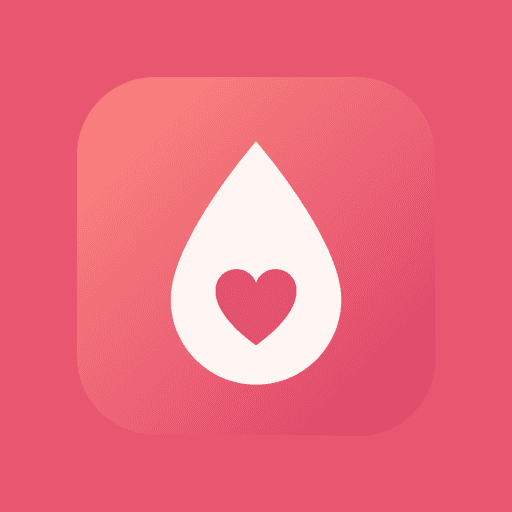
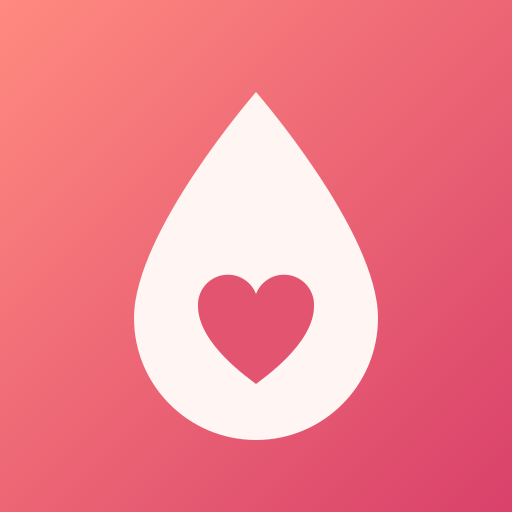
Fiabiliser la PWA : écrans de démarrage iOS, icônes et notifications
- Écrans de démarrage iOS : ajout de l'iPhone Air et de l'iPhone 8 Plus,
  du paysage, et thème clair explicite pour que clair et sombre ne
  correspondent jamais en même temps. Le logo fait 96 pt sur tous les
  iPhone, comme l'écran de chargement de l'app (plus de saut).
- Icône iOS et icône maskable générées depuis un logo plein cadre :
  plus de cadre rose autour du logo arrondi. PNG sans palette.
- Badge de notification monochrome pour Android.
- Manifeste : id stable, purpose explicite ; pré-cache sans doublons.
- Service worker : l'API est exclue du fallback de navigation, clic sur
  une notification fiable (focus puis navigate).
- Réglages : message dédié aux iPhone sous iOS < 16.4, iPad détecté.

Claude-Session: https://claude.ai/code/session_017miQZzWQEAXr7XEsAgf3kA

diff --git a/index.html b/index.html
@@ -14,26 +14,59 @@
     <link rel="icon" href="/favicon.ico" sizes="48x48" />
     <link rel="icon" href="/favicon.svg" type="image/svg+xml" />
     <link rel="apple-touch-icon" href="/apple-touch-icon-180x180.png" />
-    <link rel="apple-touch-startup-image" media="screen and (device-width: 440px) and (device-height: 956px) and (-webkit-device-pixel-ratio: 3) and (orientation: portrait)" href="/splash/apple-splash-portrait-1320x2868.png" />
+    <!--
+      Écrans de démarrage iOS (npm run icons). iOS n'affiche une image que si sa taille correspond
+      exactement à l'écran : une ligne par taille d'iPhone, orientation et thème. Le thème clair est
+      explicite pour que clair et sombre ne correspondent jamais en même temps.
+    -->
+    <link rel="apple-touch-startup-image" media="screen and (prefers-color-scheme: light) and (device-width: 440px) and (device-height: 956px) and (-webkit-device-pixel-ratio: 3) and (orientation: portrait)" href="/splash/apple-splash-portrait-1320x2868.png" />
+    <link rel="apple-touch-startup-image" media="screen and (prefers-color-scheme: light) and (device-width: 440px) and (device-height: 956px) and (-webkit-device-pixel-ratio: 3) and (orientation: landscape)" href="/splash/apple-splash-landscape-2868x1320.png" />
     <link rel="apple-touch-startup-image" media="screen and (prefers-color-scheme: dark) and (device-width: 440px) and (device-height: 956px) and (-webkit-device-pixel-ratio: 3) and (orientation: portrait)" href="/splash/apple-splash-portrait-dark-1320x2868.png" />
-    <link rel="apple-touch-startup-image" media="screen and (device-width: 402px) and (device-height: 874px) and (-webkit-device-pixel-ratio: 3) and (orientation: portrait)" href="/splash/apple-splash-portrait-1206x2622.png" />
+    <link rel="apple-touch-startup-image" media="screen and (prefers-color-scheme: dark) and (device-width: 440px) and (device-height: 956px) and (-webkit-device-pixel-ratio: 3) and (orientation: landscape)" href="/splash/apple-splash-landscape-dark-2868x1320.png" />
+    <link rel="apple-touch-startup-image" media="screen and (prefers-color-scheme: light) and (device-width: 420px) and (device-height: 912px) and (-webkit-device-pixel-ratio: 3) and (orientation: portrait)" href="/splash/apple-splash-portrait-1260x2736.png" />
+    <link rel="apple-touch-startup-image" media="screen and (prefers-color-scheme: light) and (device-width: 420px) and (device-height: 912px) and (-webkit-device-pixel-ratio: 3) and (orientation: landscape)" href="/splash/apple-splash-landscape-2736x1260.png" />
+    <link rel="apple-touch-startup-image" media="screen and (prefers-color-scheme: dark) and (device-width: 420px) and (device-height: 912px) and (-webkit-device-pixel-ratio: 3) and (orientation: portrait)" href="/splash/apple-splash-portrait-dark-1260x2736.png" />
+    <link rel="apple-touch-startup-image" media="screen and (prefers-color-scheme: dark) and (device-width: 420px) and (device-height: 912px) and (-webkit-device-pixel-ratio: 3) and (orientation: landscape)" href="/splash/apple-splash-landscape-dark-2736x1260.png" />
+    <link rel="apple-touch-startup-image" media="screen and (prefers-color-scheme: light) and (device-width: 402px) and (device-height: 874px) and (-webkit-device-pixel-ratio: 3) and (orientation: portrait)" href="/splash/apple-splash-portrait-1206x2622.png" />
+    <link rel="apple-touch-startup-image" media="screen and (prefers-color-scheme: light) and (device-width: 402px) and (device-height: 874px) and (-webkit-device-pixel-ratio: 3) and (orientation: landscape)" href="/splash/apple-splash-landscape-2622x1206.png" />
     <link rel="apple-touch-startup-image" media="screen and (prefers-color-scheme: dark) and (device-width: 402px) and (device-height: 874px) and (-webkit-device-pixel-ratio: 3) and (orientation: portrait)" href="/splash/apple-splash-portrait-dark-1206x2622.png" />
-    <link rel="apple-touch-startup-image" media="screen and (device-width: 430px) and (device-height: 932px) and (-webkit-device-pixel-ratio: 3) and (orientation: portrait)" href="/splash/apple-splash-portrait-1290x2796.png" />
+    <link rel="apple-touch-startup-image" media="screen and (prefers-color-scheme: dark) and (device-width: 402px) and (device-height: 874px) and (-webkit-device-pixel-ratio: 3) and (orientation: landscape)" href="/splash/apple-splash-landscape-dark-2622x1206.png" />
+    <link rel="apple-touch-startup-image" media="screen and (prefers-color-scheme: light) and (device-width: 430px) and (device-height: 932px) and (-webkit-device-pixel-ratio: 3) and (orientation: portrait)" href="/splash/apple-splash-portrait-1290x2796.png" />
+    <link rel="apple-touch-startup-image" media="screen and (prefers-color-scheme: light) and (device-width: 430px) and (device-height: 932px) and (-webkit-device-pixel-ratio: 3) and (orientation: landscape)" href="/splash/apple-splash-landscape-2796x1290.png" />
     <link rel="apple-touch-startup-image" media="screen and (prefers-color-scheme: dark) and (device-width: 430px) and (device-height: 932px) and (-webkit-device-pixel-ratio: 3) and (orientation: portrait)" href="/splash/apple-splash-portrait-dark-1290x2796.png" />
-    <link rel="apple-touch-startup-image" media="screen and (device-width: 393px) and (device-height: 852px) and (-webkit-device-pixel-ratio: 3) and (orientation: portrait)" href="/splash/apple-splash-portrait-1179x2556.png" />
+    <link rel="apple-touch-startup-image" media="screen and (prefers-color-scheme: dark) and (device-width: 430px) and (device-height: 932px) and (-webkit-device-pixel-ratio: 3) and (orientation: landscape)" href="/splash/apple-splash-landscape-dark-2796x1290.png" />
+    <link rel="apple-touch-startup-image" media="screen and (prefers-color-scheme: light) and (device-width: 393px) and (device-height: 852px) and (-webkit-device-pixel-ratio: 3) and (orientation: portrait)" href="/splash/apple-splash-portrait-1179x2556.png" />
+    <link rel="apple-touch-startup-image" media="screen and (prefers-color-scheme: light) and (device-width: 393px) and (device-height: 852px) and (-webkit-device-pixel-ratio: 3) and (orientation: landscape)" href="/splash/apple-splash-landscape-2556x1179.png" />
     <link rel="apple-touch-startup-image" media="screen and (prefers-color-scheme: dark) and (device-width: 393px) and (device-height: 852px) and (-webkit-device-pixel-ratio: 3) and (orientation: portrait)" href="/splash/apple-splash-portrait-dark-1179x2556.png" />
-    <link rel="apple-touch-startup-image" media="screen and (device-width: 428px) and (device-height: 926px) and (-webkit-device-pixel-ratio: 3) and (orientation: portrait)" href="/splash/apple-splash-portrait-1284x2778.png" />
+    <link rel="apple-touch-startup-image" media="screen and (prefers-color-scheme: dark) and (device-width: 393px) and (device-height: 852px) and (-webkit-device-pixel-ratio: 3) and (orientation: landscape)" href="/splash/apple-splash-landscape-dark-2556x1179.png" />
+    <link rel="apple-touch-startup-image" media="screen and (prefers-color-scheme: light) and (device-width: 428px) and (device-height: 926px) and (-webkit-device-pixel-ratio: 3) and (orientation: portrait)" href="/splash/apple-splash-portrait-1284x2778.png" />
+    <link rel="apple-touch-startup-image" media="screen and (prefers-color-scheme: light) and (device-width: 428px) and (device-height: 926px) and (-webkit-device-pixel-ratio: 3) and (orientation: landscape)" href="/splash/apple-splash-landscape-2778x1284.png" />
     <link rel="apple-touch-startup-image" media="screen and (prefers-color-scheme: dark) and (device-width: 428px) and (device-height: 926px) and (-webkit-device-pixel-ratio: 3) and (orientation: portrait)" href="/splash/apple-splash-portrait-dark-1284x2778.png" />
-    <link rel="apple-touch-startup-image" media="screen and (device-width: 390px) and (device-height: 844px) and (-webkit-device-pixel-ratio: 3) and (orientation: portrait)" href="/splash/apple-splash-portrait-1170x2532.png" />
+    <link rel="apple-touch-startup-image" media="screen and (prefers-color-scheme: dark) and (device-width: 428px) and (device-height: 926px) and (-webkit-device-pixel-ratio: 3) and (orientation: landscape)" href="/splash/apple-splash-landscape-dark-2778x1284.png" />
+    <link rel="apple-touch-startup-image" media="screen and (prefers-color-scheme: light) and (device-width: 390px) and (device-height: 844px) and (-webkit-device-pixel-ratio: 3) and (orientation: portrait)" href="/splash/apple-splash-portrait-1170x2532.png" />
+    <link rel="apple-touch-startup-image" media="screen and (prefers-color-scheme: light) and (device-width: 390px) and (device-height: 844px) and (-webkit-device-pixel-ratio: 3) and (orientation: landscape)" href="/splash/apple-splash-landscape-2532x1170.png" />
     <link rel="apple-touch-startup-image" media="screen and (prefers-color-scheme: dark) and (device-width: 390px) and (device-height: 844px) and (-webkit-device-pixel-ratio: 3) and (orientation: portrait)" href="/splash/apple-splash-portrait-dark-1170x2532.png" />
-    <link rel="apple-touch-startup-image" media="screen and (device-width: 375px) and (device-height: 812px) and (-webkit-device-pixel-ratio: 3) and (orientation: portrait)" href="/splash/apple-splash-portrait-1125x2436.png" />
+    <link rel="apple-touch-startup-image" media="screen and (prefers-color-scheme: dark) and (device-width: 390px) and (device-height: 844px) and (-webkit-device-pixel-ratio: 3) and (orientation: landscape)" href="/splash/apple-splash-landscape-dark-2532x1170.png" />
+    <link rel="apple-touch-startup-image" media="screen and (prefers-color-scheme: light) and (device-width: 375px) and (device-height: 812px) and (-webkit-device-pixel-ratio: 3) and (orientation: portrait)" href="/splash/apple-splash-portrait-1125x2436.png" />
+    <link rel="apple-touch-startup-image" media="screen and (prefers-color-scheme: light) and (device-width: 375px) and (device-height: 812px) and (-webkit-device-pixel-ratio: 3) and (orientation: landscape)" href="/splash/apple-splash-landscape-2436x1125.png" />
     <link rel="apple-touch-startup-image" media="screen and (prefers-color-scheme: dark) and (device-width: 375px) and (device-height: 812px) and (-webkit-device-pixel-ratio: 3) and (orientation: portrait)" href="/splash/apple-splash-portrait-dark-1125x2436.png" />
-    <link rel="apple-touch-startup-image" media="screen and (device-width: 375px) and (device-height: 667px) and (-webkit-device-pixel-ratio: 2) and (orientation: portrait)" href="/splash/apple-splash-portrait-750x1334.png" />
-    <link rel="apple-touch-startup-image" media="screen and (prefers-color-scheme: dark) and (device-width: 375px) and (device-height: 667px) and (-webkit-device-pixel-ratio: 2) and (orientation: portrait)" href="/splash/apple-splash-portrait-dark-750x1334.png" />
-    <link rel="apple-touch-startup-image" media="screen and (device-width: 414px) and (device-height: 896px) and (-webkit-device-pixel-ratio: 3) and (orientation: portrait)" href="/splash/apple-splash-portrait-1242x2688.png" />
+    <link rel="apple-touch-startup-image" media="screen and (prefers-color-scheme: dark) and (device-width: 375px) and (device-height: 812px) and (-webkit-device-pixel-ratio: 3) and (orientation: landscape)" href="/splash/apple-splash-landscape-dark-2436x1125.png" />
+    <link rel="apple-touch-startup-image" media="screen and (prefers-color-scheme: light) and (device-width: 414px) and (device-height: 896px) and (-webkit-device-pixel-ratio: 3) and (orientation: portrait)" href="/splash/apple-splash-portrait-1242x2688.png" />
+    <link rel="apple-touch-startup-image" media="screen and (prefers-color-scheme: light) and (device-width: 414px) and (device-height: 896px) and (-webkit-device-pixel-ratio: 3) and (orientation: landscape)" href="/splash/apple-splash-landscape-2688x1242.png" />
     <link rel="apple-touch-startup-image" media="screen and (prefers-color-scheme: dark) and (device-width: 414px) and (device-height: 896px) and (-webkit-device-pixel-ratio: 3) and (orientation: portrait)" href="/splash/apple-splash-portrait-dark-1242x2688.png" />
-    <link rel="apple-touch-startup-image" media="screen and (device-width: 414px) and (device-height: 896px) and (-webkit-device-pixel-ratio: 2) and (orientation: portrait)" href="/splash/apple-splash-portrait-828x1792.png" />
+    <link rel="apple-touch-startup-image" media="screen and (prefers-color-scheme: dark) and (device-width: 414px) and (device-height: 896px) and (-webkit-device-pixel-ratio: 3) and (orientation: landscape)" href="/splash/apple-splash-landscape-dark-2688x1242.png" />
+    <link rel="apple-touch-startup-image" media="screen and (prefers-color-scheme: light) and (device-width: 414px) and (device-height: 896px) and (-webkit-device-pixel-ratio: 2) and (orientation: portrait)" href="/splash/apple-splash-portrait-828x1792.png" />
+    <link rel="apple-touch-startup-image" media="screen and (prefers-color-scheme: light) and (device-width: 414px) and (device-height: 896px) and (-webkit-device-pixel-ratio: 2) and (orientation: landscape)" href="/splash/apple-splash-landscape-1792x828.png" />
     <link rel="apple-touch-startup-image" media="screen and (prefers-color-scheme: dark) and (device-width: 414px) and (device-height: 896px) and (-webkit-device-pixel-ratio: 2) and (orientation: portrait)" href="/splash/apple-splash-portrait-dark-828x1792.png" />
+    <link rel="apple-touch-startup-image" media="screen and (prefers-color-scheme: dark) and (device-width: 414px) and (device-height: 896px) and (-webkit-device-pixel-ratio: 2) and (orientation: landscape)" href="/splash/apple-splash-landscape-dark-1792x828.png" />
+    <link rel="apple-touch-startup-image" media="screen and (prefers-color-scheme: light) and (device-width: 414px) and (device-height: 736px) and (-webkit-device-pixel-ratio: 3) and (orientation: portrait)" href="/splash/apple-splash-portrait-1242x2208.png" />
+    <link rel="apple-touch-startup-image" media="screen and (prefers-color-scheme: light) and (device-width: 414px) and (device-height: 736px) and (-webkit-device-pixel-ratio: 3) and (orientation: landscape)" href="/splash/apple-splash-landscape-2208x1242.png" />
+    <link rel="apple-touch-startup-image" media="screen and (prefers-color-scheme: dark) and (device-width: 414px) and (device-height: 736px) and (-webkit-device-pixel-ratio: 3) and (orientation: portrait)" href="/splash/apple-splash-portrait-dark-1242x2208.png" />
+    <link rel="apple-touch-startup-image" media="screen and (prefers-color-scheme: dark) and (device-width: 414px) and (device-height: 736px) and (-webkit-device-pixel-ratio: 3) and (orientation: landscape)" href="/splash/apple-splash-landscape-dark-2208x1242.png" />
+    <link rel="apple-touch-startup-image" media="screen and (prefers-color-scheme: light) and (device-width: 375px) and (device-height: 667px) and (-webkit-device-pixel-ratio: 2) and (orientation: portrait)" href="/splash/apple-splash-portrait-750x1334.png" />
+    <link rel="apple-touch-startup-image" media="screen and (prefers-color-scheme: light) and (device-width: 375px) and (device-height: 667px) and (-webkit-device-pixel-ratio: 2) and (orientation: landscape)" href="/splash/apple-splash-landscape-1334x750.png" />
+    <link rel="apple-touch-startup-image" media="screen and (prefers-color-scheme: dark) and (device-width: 375px) and (device-height: 667px) and (-webkit-device-pixel-ratio: 2) and (orientation: portrait)" href="/splash/apple-splash-portrait-dark-750x1334.png" />
+    <link rel="apple-touch-startup-image" media="screen and (prefers-color-scheme: dark) and (device-width: 375px) and (device-height: 667px) and (-webkit-device-pixel-ratio: 2) and (orientation: landscape)" href="/splash/apple-splash-landscape-dark-1334x750.png" />
   </head>
   <body>
     <div id="root"></div>

diff --git a/pwa-assets.config.ts b/pwa-assets.config.ts
@@ -1,14 +1,25 @@
 import { defineConfig, minimal2023Preset, createAppleSplashScreens } from '@vite-pwa/assets-generator/config'
 
+/**
+ * Taille du logo sur l'écran de démarrage iOS, en points. Elle doit rester égale à celle du logo
+ * de l'écran de chargement de l'app (size-24 = 96 px dans App.tsx), sinon le logo « saute »
+ * quand l'app prend le relais.
+ */
+const SPLASH_LOGO_PT = 96
+
+// Icônes « transparentes » (logo arrondi) et écrans de démarrage iOS, depuis public/logo.svg.
+// L'icône iOS et l'icône maskable Android viennent de pwa-assets.full-bleed.config.ts :
+// elles doivent remplir tout le carré, sinon on voit un cadre rose autour du logo arrondi.
 export default defineConfig({
   headLinkOptions: { preset: '2023' },
   preset: {
-    ...minimal2023Preset,
-    maskable: { ...minimal2023Preset.maskable, resizeOptions: { background: '#E8566F' } },
-    apple: { ...minimal2023Preset.apple, resizeOptions: { background: '#E8566F' } },
-    appleSplashScreens: createAppleSplashScreens(
+    transparent: minimal2023Preset.transparent,
+    // Pas de « quality » : sharp passerait en palette 256 couleurs et le dégradé serait tramé.
+    png: { compressionLevel: 9, quality: undefined },
+    maskable: { sizes: [] },
+    apple: { sizes: [] },
+    appleSplashScreens: withLogoSize(createAppleSplashScreens(
       {
-        padding: 0.35,
         resizeOptions: { background: '#FFF6F3', fit: 'contain' },
         darkResizeOptions: { background: '#1E1416', fit: 'contain' },
         linkMediaOptions: { log: true, addMediaScreen: true, basePath: '/', xhtml: false },
@@ -16,8 +27,31 @@ export default defineConfig({
         name: (landscape, size, dark) =>
           `splash/apple-splash-${landscape ? 'landscape' : 'portrait'}-${dark ? 'dark-' : ''}${size.width}x${size.height}.png`,
       },
-      ['iPhone 16 Pro Max', 'iPhone 16 Pro', 'iPhone 16 Plus', 'iPhone 16', 'iPhone 15 Pro Max', 'iPhone 15 Pro', 'iPhone 14 Plus', 'iPhone 13', 'iPhone 13 mini', 'iPhone SE 4.7"', 'iPhone 11 Pro Max', 'iPhone 11', 'iPhone X'],
-    ),
+      // Un écran par taille d'iPhone sous iOS 16.4+ (minimum pour les notifications).
+      // Les modèles de même taille partagent la même image (ex. 17 = 16 Pro, 16e = 14 = 13).
+      [
+        'iPhone 17 Pro Max', // 440×956 @3 (= 16 Pro Max)
+        'iPhone Air', // 420×912 @3
+        'iPhone 17 Pro', // 402×874 @3 (= 17, 16 Pro)
+        'iPhone 16 Plus', // 430×932 @3 (= 15 Plus, 15 Pro Max, 14 Pro Max)
+        'iPhone 16', // 393×852 @3 (= 15, 15 Pro, 14 Pro)
+        'iPhone 14 Plus', // 428×926 @3 (= 13 Pro Max, 12 Pro Max)
+        'iPhone 13', // 390×844 @3 (= 16e, 14, 13 Pro, 12)
+        'iPhone 13 mini', // 375×812 @3 (= 12 mini, 11 Pro, XS, X)
+        'iPhone 11 Pro Max', // 414×896 @3 (= XS Max)
+        'iPhone 11', // 414×896 @2 (= XR)
+        'iPhone 8 Plus', // 414×736 @3
+        'iPhone SE 4.7"', // 375×667 @2 (= SE 2/3, 8)
+      ],
+    )),
   },
   images: ['public/logo.svg'],
 })
+
+/** Marge propre à chaque écran pour que le logo fasse SPLASH_LOGO_PT points sur tous les iPhone. */
+function withLogoSize<T extends { sizes: { width: number; scaleFactor: number; padding?: number }[] }>(splash: T): T {
+  return {
+    ...splash,
+    sizes: splash.sizes.map((size) => ({ ...size, padding: 1 - SPLASH_LOGO_PT / (size.width / size.scaleFactor) })),
+  }
+}

diff --git a/vite.config.ts b/vite.config.ts
@@ -19,10 +19,13 @@ export default defineConfig(({ mode }) => {
       registerType: 'autoUpdate',
       injectRegister: false,
       injectManifest: {
-        // Les écrans de démarrage iOS ne sont pas pré-cachés (inutiles hors ligne).
-        globPatterns: ['**/*.{js,css,html,svg,ico,woff2}', 'pwa-*.png', 'maskable-*.png', 'apple-touch-icon-*.png'],
+        // Les icônes du manifeste sont ajoutées automatiquement. Les écrans de démarrage iOS et
+        // l'icône iOS ne sont pas pré-cachés : iOS les télécharge une seule fois, à l'installation.
+        globPatterns: ['**/*.{js,css,html,ico,woff2}', 'logo.svg', 'favicon.svg', 'badge-*.png'],
       },
       manifest: {
+        // Identifiant stable de l'app installée (sinon Chrome le déduit de start_url).
+        id: '/',
         name: 'Cycle à deux',
         short_name: 'Cycle',
         description: 'Suivi des règles partagé, simple et rapide.',
@@ -34,12 +37,12 @@ export default defineConfig(({ mode }) => {
         background_color: '#FFF6F3',
         theme_color: '#FFF6F3',
         icons: [
-          { src: 'pwa-64x64.png', sizes: '64x64', type: 'image/png' },
-          { src: 'pwa-192x192.png', sizes: '192x192', type: 'image/png' },
-          { src: 'pwa-512x512.png', sizes: '512x512', type: 'image/png' },
+          { src: 'pwa-64x64.png', sizes: '64x64', type: 'image/png', purpose: 'any' },
+          { src: 'pwa-192x192.png', sizes: '192x192', type: 'image/png', purpose: 'any' },
+          { src: 'pwa-512x512.png', sizes: '512x512', type: 'image/png', purpose: 'any' },
           { src: 'maskable-icon-512x512.png', sizes: '512x512', type: 'image/png', purpose: 'maskable' },
         ],
-        shortcuts: [{ name: 'Noter aujourd’hui', url: '/?log=today', icons: [{ src: 'pwa-192x192.png', sizes: '192x192' }] }],
+        shortcuts: [{ name: 'Noter aujourd’hui', url: '/?log=today', icons: [{ src: 'pwa-192x192.png', sizes: '192x192', type: 'image/png' }] }],
       },
       devOptions: { enabled: false },
     }),

diff --git a/src/sw.ts b/src/sw.ts
@@ -8,7 +8,8 @@ declare const self: ServiceWorkerGlobalScope
 // Cache hors ligne de l'app (HTML, JS, CSS, icônes).
 precacheAndRoute(self.__WB_MANIFEST)
 cleanupOutdatedCaches()
-registerRoute(new NavigationRoute(createHandlerBoundToURL('/index.html')))
+// Toute navigation sert l'app en cache (hors ligne compris), sauf les routes de l'API.
+registerRoute(new NavigationRoute(createHandlerBoundToURL('/index.html'), { denylist: [/^\/api\//] }))
 
 self.skipWaiting()
 clientsClaim()
@@ -26,7 +27,8 @@ self.addEventListener('push', (event) => {
     self.registration.showNotification(data.title ?? 'Cycle à deux', {
       body: data.body,
       icon: '/pwa-192x192.png',
-      badge: '/pwa-64x64.png',
+      // Android n'affiche que la silhouette du badge (barre d'état) : il doit être monochrome.
+      badge: '/badge-96x96.png',
       tag: data.kind ?? 'reminder',
       data: { url: data.url ?? '/' },
     }),
@@ -38,14 +40,14 @@ self.addEventListener('notificationclick', (event) => {
   event.notification.close()
   const url = new URL(event.notification.data?.url ?? '/', self.location.origin).href
   event.waitUntil(
-    self.clients.matchAll({ type: 'window', includeUncontrolled: true }).then((list) => {
-      for (const client of list) {
-        if ('focus' in client) {
-          client.navigate(url)
-          return client.focus()
-        }
-      }
-      return self.clients.openWindow(url)
-    }),
+    (async () => {
+      const list = await self.clients.matchAll({ type: 'window', includeUncontrolled: true })
+      const client = list.find((c) => c.visibilityState === 'visible') ?? list[0]
+      if (!client) return void (await self.clients.openWindow(url))
+      // focus() d'abord : il doit être appelé tant que le clic sur la notification compte
+      // comme une action de l'utilisateur. navigate() échoue sur une page non contrôlée.
+      const focused = await client.focus()
+      if (focused.url !== url) await focused.navigate(url).catch(() => undefined)
+    })(),
   )
 })

diff --git a/src/components/Settings.tsx b/src/components/Settings.tsx
@@ -52,9 +52,11 @@ export function Settings({ couple, profile, members, onChange }: Props) {
         <SectionTitle>Notifications</SectionTitle>
         {!pushSupported || (isIOS && !isStandalone) ? (
           <p className="text-sm">
-            {isIOS
+            {isIOS && !isStandalone
               ? 'Sur iPhone, installez d’abord l’app : Safari → Partager → « Sur l’écran d’accueil », puis ouvrez-la depuis l’icône.'
-              : 'Ce navigateur ne gère pas les notifications push.'}
+              : isIOS
+                ? 'Les notifications demandent iOS 16.4 ou plus récent : mettez l’iPhone à jour (Réglages → Général → Mise à jour logicielle).'
+                : 'Ce navigateur ne gère pas les notifications push.'}
           </p>
         ) : (
           <>

diff --git a/pwa-assets.full-bleed.config.ts b/pwa-assets.full-bleed.config.ts
@@ -1,0 +1,16 @@
+import { defineConfig } from '@vite-pwa/assets-generator/config'
+
+// Icône iOS (apple-touch-icon) et icône maskable Android depuis public/logo-full-bleed.svg :
+// le dégradé remplit tout le carré, iOS et Android appliquent eux-mêmes leur masque arrondi.
+// La goutte reste dans la zone sûre des icônes maskable (cercle de 80 % du diamètre).
+export default defineConfig({
+  headLinkOptions: { preset: '2023' },
+  preset: {
+    transparent: { sizes: [], favicons: [] },
+    // Pas de « quality » : sharp passerait en palette 256 couleurs et le dégradé serait tramé.
+    png: { compressionLevel: 9, quality: undefined },
+    maskable: { sizes: [512], padding: 0 },
+    apple: { sizes: [180], padding: 0 },
+  },
+  images: ['public/logo-full-bleed.svg'],
+})

diff --git a/src/lib/push.ts b/src/lib/push.ts
@@ -8,7 +8,8 @@ export const pushSupported = 'serviceWorker' in navigator && 'PushManager' in wi
 export const isStandalone =
   window.matchMedia('(display-mode: standalone)').matches || (navigator as { standalone?: boolean }).standalone === true
 
-export const isIOS = /iphone|ipad|ipod/i.test(navigator.userAgent)
+// Les iPad récents se présentent comme un Mac : on les repère à l'écran tactile.
+export const isIOS = /iphone|ipad|ipod/i.test(navigator.userAgent) || (/macintosh/i.test(navigator.userAgent) && navigator.maxTouchPoints > 1)
 
 function urlBase64ToUint8Array(base64: string) {
   const padding = '='.repeat((4 - (base64.length % 4)) % 4)

diff --git a/README.md b/README.md
@@ -80,8 +80,10 @@ npm install
 npm run dev                  # app + API en local sur http://localhost:5173
 npm test                     # tests de la logique de cycle
 npm run build                # vérification des types + build de production (dist/)
-npm run icons                # régénère icônes et écrans de démarrage depuis public/logo.svg
+npm run icons                # régénère icônes et écrans de démarrage (public/logo.svg et public/logo-full-bleed.svg)
 ```
+
+Si vous changez le logo, les écrans de démarrage ou le thème : sur iPhone, l'icône et l'écran de démarrage sont copiés au moment de « Sur l'écran d'accueil ». Il faut supprimer l'app de l'écran d'accueil et la réajouter pour voir les nouveaux. Selon les versions d'iOS, l'écran de démarrage clair ou sombre peut aussi rester celui du thème actif au moment de l'ajout.
 
 Pour déclencher les rappels à la main (en local ou en production) :
 
